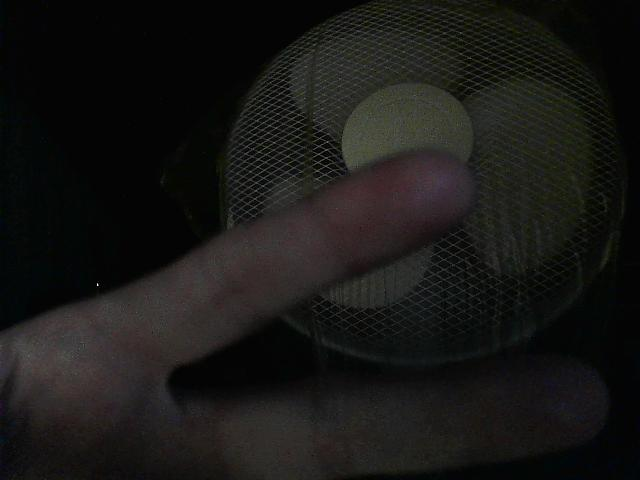
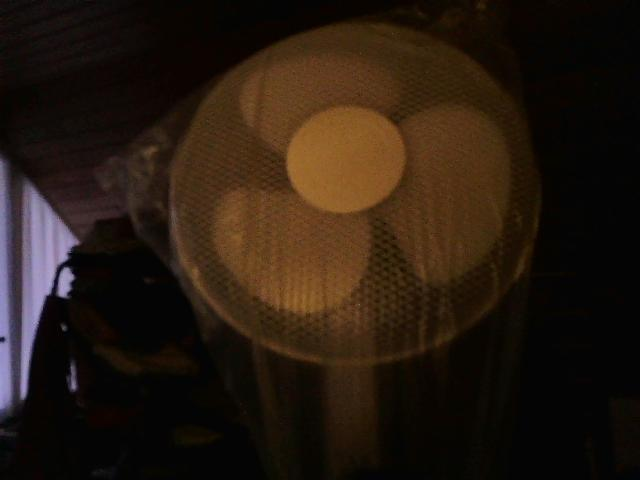
return to HH

diff --git a/app/camera.py b/app/camera.py
@@ -32,39 +32,32 @@ class Camera:
                 return index
         return None
 
-    def start_display(self):
+    def openCamSession(self):
         self.cap = cv2.VideoCapture(self.selected_index, cv2.CAP_DSHOW)
         self.is_displaying = True
-        self.update_display()
+        self.get_frame()
 
-    def stop_display(self):
+    def closeCamSession(self):
         self.is_displaying = False
         if self.cap:
             self.cap.release()
             self.cap = None
 
-    def update_display(self):
+    def get_frame(self):
         if not self.is_displaying or not self.cap:
-            return
+            return None
 
-        ret, frame = self.cap.read()
-        if ret:
-            frame = cv2.cvtColor(frame, cv2.COLOR_BGR2RGB)
-            img = Image.fromarray(frame)
-            img = img.resize((200, 200))
-            imgtk = ImageTk.PhotoImage(image=img)
-
-            # ✅ Keep reference to avoid garbage collection
-            self.canvas.imgtk = imgtk
-            self.canvas.config(image=imgtk)
-
-        self.canvas.after(30, self.update_display)
+        was_read_succesfull, frame = self.cap.read()
+        if was_read_succesfull:
+            return frame 
+        else: 
+            return None
 
     def capture_image(self):
         if not self.cap or not self.cap.isOpened():
             return None
         ret, frame = self.cap.read()
-        return frame if ret else None
+        return frame if ret else None 
     
     def release(self):
         if self.cap is not None:

diff --git a/app/view.py b/app/view.py
@@ -100,7 +100,7 @@ class View:
         self.shared_cameraCanvas = tk.Label(self.frames["frame_2"], text="Camera Preview")
         self.shared_cameraCanvas.pack(padx=10, pady=10)
         self.camera.set_canvas(self.shared_cameraCanvas)
-        self.shared_cameraCanvas.after(100, self.camera.start_display)   
+        self.shared_cameraCanvas.after(100, self.camera.openCamSession)   
 
     def on_camera_select(self, event):
         # Placeholder function for camera selection event
@@ -121,6 +121,9 @@ class View:
         buttonFrame_detect.pack(pady=10)
         button_detect = tk.Button(buttonFrame_capture, text="detect", command=lambda: self.on_detect())
         button_detect.pack(side=tk.LEFT, padx=5)
+
+    def get_current_tag(self):
+        return self.shared_listbox.get(self.shared_listbox.curselection()) if self.shared_listbox.curselection() else None  
 
     def on_capture(self):
         selection_tuple = self.shared_listbox.curselection()
@@ -146,5 +149,3 @@ class View:
         tag = self.get_current_tag()
         frame_annotated = self.cont.detect(tag, self.camera.provide_capture())
 
-    def get_current_tag(self):
-        return self.shared_listbox.get(self.shared_listbox.curselection()) if self.shared_listbox.curselection() else None  
